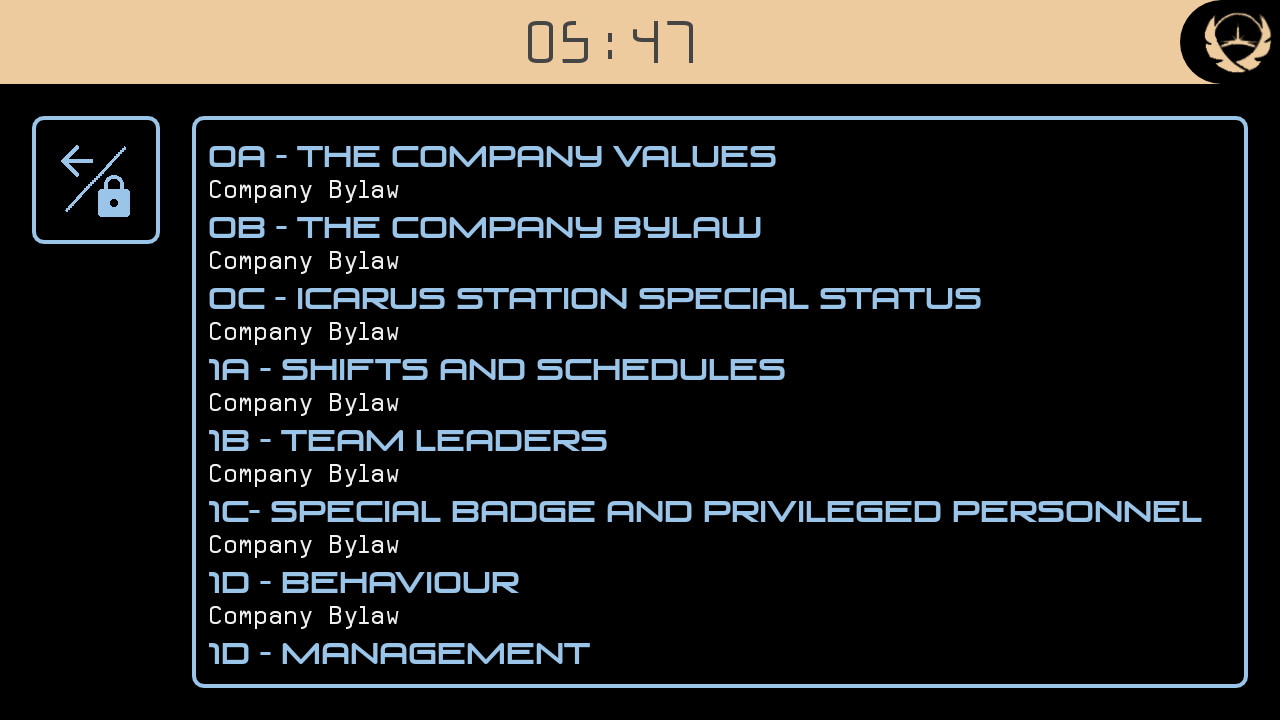
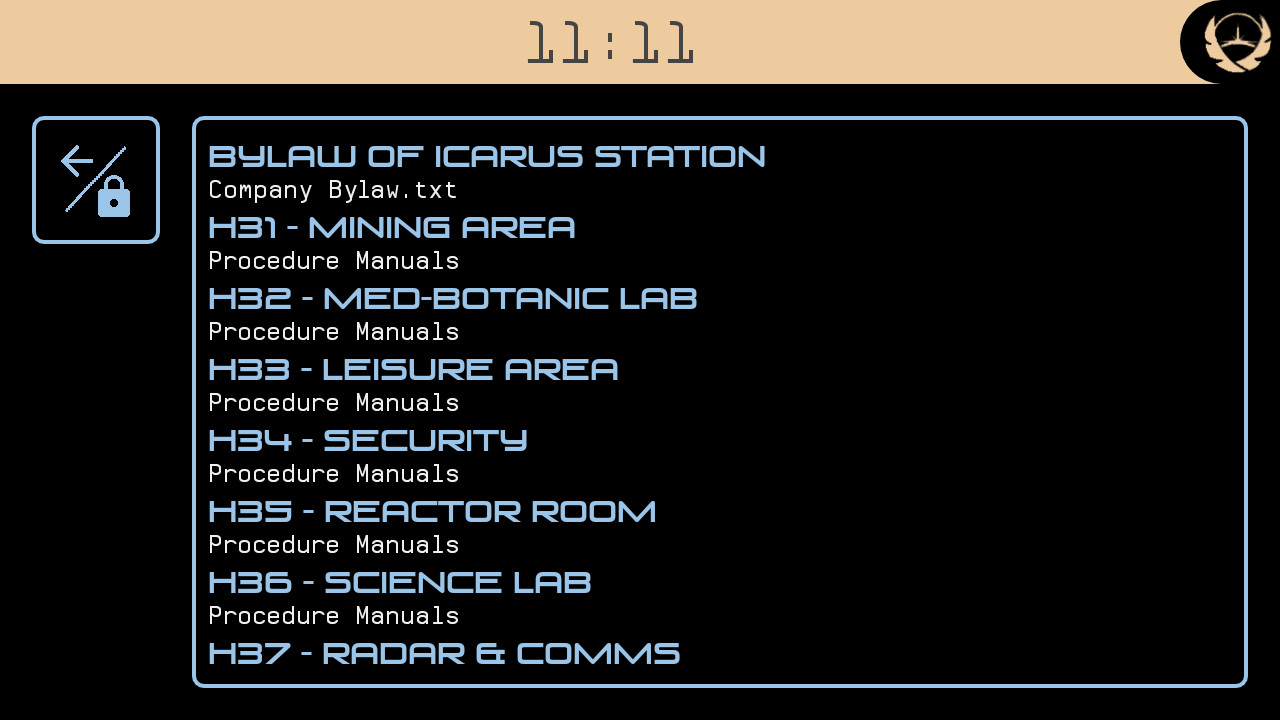
removed password and reqrote section of regulations

diff --git a/README.md b/README.md
@@ -14,7 +14,7 @@ It offers the following features:
 * a customizable set of station regulations for easy lookup during the game
 * access to all apps on your phone through a list stripped of the icons. No need to find a sci-fi icon for your calculator
 * possibility to hide apps you don't want to use
-* all of the above locked with a password, so you can easily use your character password, but can disable the lockscreen of your device entirely
+* all of the above locked with a screenguard, so you can disable the lockscreen of your device entirely
 * fully customizable colour scheme
 * can be locked to all orientations of your device, in case you want to carry it in some crazy configuration
 
@@ -38,15 +38,11 @@ The clock allows you to select your shift. It will then remind you, when it is t
 
 You can enter a time offset (positive or negative) in case the game starts early or late.
 
-## Security
+## Screenguard
 
 ![Screenshot of the launcher](locked.jpg)
 
-The Launcher automatically locks itself once the screen is turned off. You can lock it manually by pressing the lock icon on the home screen or long-pressing the back/lock icon on the other screens.
-
-![Screenshot of the launcher](password.jpg)
-
-When the launcher is locked, you need to unlock it before you can start using it again. To do that, press the UNLOCK button below the clock. You will then be directed to the password screen, where you can enter your password. **Entering the password for the first time will set it for the game, so make sure to enter your character password from your character description.**
+The Launcher automatically locks itself once the screen is turned off. You can lock it manually by pressing the lock icon on the home screen or long-pressing the back/lock icon on the other screens. This lock is simply a screenguard, it will not provide any security for your notes. This is intentional, because it will be difficult enough to steal a device, and doing that might enable cool ingame situations.
 
 ## Personal log
 
@@ -66,27 +62,12 @@ To start an audio recording, simply tap the microphone button. A red indicator w
 
 ![Screenshot of the launcher](regulations.jpg)
 
-On Icarus, there are a lot of regulations and you might not have learned every detail of it. That's why you can look them up in the regulations section. After installation, the app does not have any regulations to show, but you might want to put at least the company bylaw there. To create a regulation that will be shown in the app, follow this procedure:
+On Icarus, there are a lot of regulations and you might not have learned every detail of it. That's why you can look them up in the regulations section. The app comes preloaded with the *Company Bylaw*, the design document (disguised as *Safety Regulations*) and all work *Procedure Manuals*. However, you can also put your own `.pdf` files in there, if you need anything else. To do that:
 
-* create a folder "regulations" within your Android download folder. This is the folder where Android will store downloaded files by default.
-* put a txt file in the folder for each section of the regulations you want to use.
-
-The first line of the file marks the category the regulation belongs to. This will be used for sorting them. The second line is the title or caption. All following lines are the content that will be displayed.
-
-To give you an example, here is the file for a company bylaw section.
-
-```
-Company Bylaw
-1e - Compulsory activities
-Every employee is entitled to have personal free time every shift. Beside working hours there are other compulsory activities that everyone on Icarus Station must attend, during each and every shift:
-
-- Physical training in the Leisure Area
-- Meals
-- Routine medical checks in Sick Bay
-- Socialization time in the Leisure Area
-```
-
-Since I am in the mining team, I already created custom steps for the miners. If you are a miner, please just use those. I posted them in the mining Facebook group. If you are not on Facebook, contact me (below) and I'll send them to you personally. I don't want to put them on display for anyone to see without the permission of the Icarus team.
+* create a folder `regulations` within your Android download folder. This is the folder where Android will store downloaded files by default.
+* put your `.pdf` file in the folder
+* create a `.txt` file with the name of the category you want your document to be in. E.g. documents in the *Procedure Manuals* category are listed in the file `Procedure Manuals.txt`
+* enter the name of the `.pdf` file without the `.pdf` extension in a line in the created `txt` file. E.g. the file `BYLAW of Icarus Station.pdf` needs to be listed as *BYLAW of Icarus Station*
 
 ## Apps
 
@@ -96,7 +77,7 @@ Of course you might want to use your device in any way I can't really forsee dur
 
 Hiding apps. Since it is not very canon to have the Google Play Store available on a device, you can create a list of blocked apps, that will not be shown by the launcher. To do so
 
-* create a file blocked.txt in your devices download folder. This is the folder where Android usually stores files you download from the internet.
+* create a file `blocked.txt` in your devices download folder. This is the folder where Android usually stores files you download from the internet.
 * enter the names of every app you wish to hide in an individual line.
 
 My file looks like this, for example.
